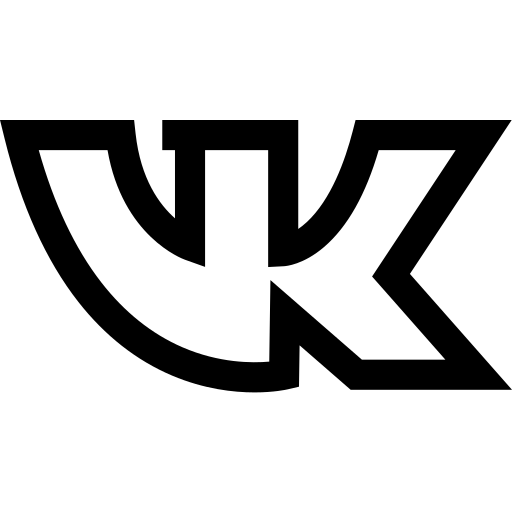
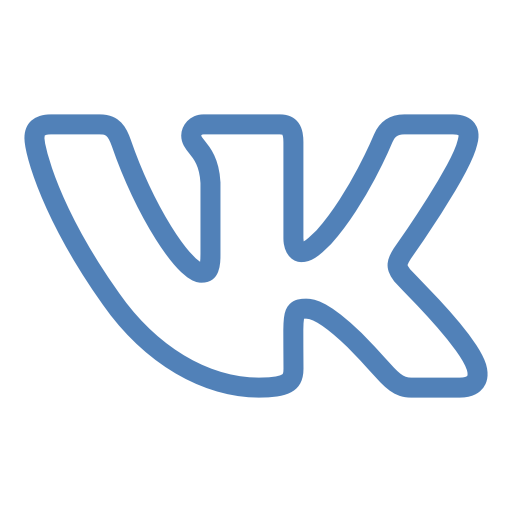
Fix bugs
- Исправлено отображение меню на широких, узких, больших и маленьких экранах
- Смена иконок в footer

Changed region(s): [[0.0, 0.2188, 1.0, 0.7812]]

diff --git a/style.css b/style.css
@@ -15,6 +15,7 @@ body {
 
 #header {
     max-width: 1900px;
+    min-height: 100vh;
     margin: 0 auto 0 auto;
     box-sizing: border-box;
     background-color: #181818;
@@ -58,7 +59,7 @@ body {
     box-sizing: border-box;
     visibility: hidden;
     width: 99vw;
-    height: 100vh;
+    height: 120vh;
     background-color: #181818;
     color: #fff;
     text-align: center;
@@ -86,12 +87,14 @@ body {
 
 
 .menu-container {
+    max-width: 1900px;
+    margin: auto;
     display: grid;
     grid-template-columns: 1fr 1fr 1fr;
-    margin-top: 15vw;
+    margin-top: 30vh;
 }
 #menu-text {
-    margin: 5vh auto 10vh auto;
+    margin: 5vh auto 5vh auto;
     width: 160px;
     text-transform: uppercase;
     font-size: 40px;
@@ -100,7 +103,7 @@ body {
 }
 .menu-content-text {
     max-width: 600px;
-    margin: auto 2vw 40vh 0;
+    margin: auto 2vw auto 0;
     font-weight: bold;
     text-transform: uppercase;
     font-size: 10vh;
@@ -116,7 +119,8 @@ body {
     }
     .menu-container {
         grid-template-columns: 100vw;
-        margin-bottom: 20vh;
+        margin-bottom: 5vh;
+        margin-top: 10vh;
         padding-left: 0;
     }
 }

diff --git a/index.html b/index.html
@@ -22,13 +22,6 @@
                         <a class='menu-content-text' href="http://youtube.com" style="color: rgb(27, 127, 204);">Video</a>
                         <a class='menu-content-text' href="https://habr.com/ru/company/true_engineering/blog/416123/" style="color: #9a20be;">Develop</a>
                     </div>
-                    <footer class='footer'>
-                        <h4 class='footer-author'>DNSV 2020</h4>
-                        <h4 style="width: calc(90vw - 260px);"></h4>
-                        <a href= "https://vk.com/vlados.denisov" target="_blank"><img src="src/vk.png" alt="VK" class='icon'></a>
-                        <a href= "https://www.instagram.com/vladan4ik10/" target="_blank"><img src="src/inst.png" alt="Inst" class='icon'></a>
-                        <a href= "https://github.com/NewSoftwareCulture" target="_blank"><img src="src/github.png" alt="GitHub" class='icon'></a>
-                    </footer>
                 </span>
             </div>
         </div>
